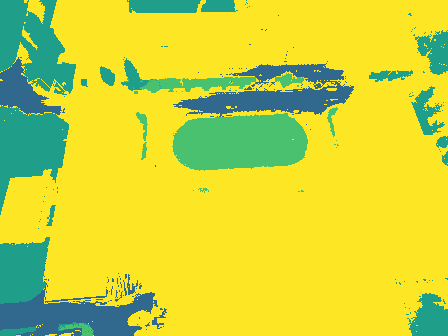
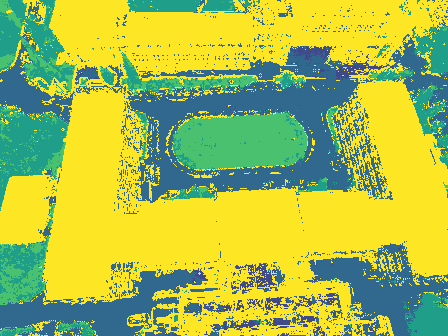
emmm

diff --git a/model.py b/model.py
@@ -23,13 +23,11 @@ class DenseClip(nn.Module):
         jit: bool = False,
         only_clear: bool = False,
         upsampler: str = "gfup",
-        downscale_factor: float = 0.5,  # 新增：下采样比例，与 infer.py 一致
     ):
         super().__init__()
         self.device = torch.device(device)
         self.model_name = name
         self.only_clear = only_clear
-        self.downscale_factor = downscale_factor
 
         # 1. 加载 OpenCLIP 模型
         pretrained_tag = "openai" if "laion" not in name else "laion2b_s34b_b88k"
@@ -181,7 +179,7 @@ class DenseClip(nn.Module):
         # --- 针对 SatUp 的特殊处理：与 infer.py 完全一致 ---
         if isinstance(self.up, SatUp):
             # 1. 下采样输入图像
-            lr_img = F.interpolate(x, scale_factor=self.downscale_factor, mode='bilinear', align_corners=False)
+            lr_img = x
             # 2. 从下采样图像提取 ClearCLIP 特征
             lr_features = self._extract_clearclip_features(lr_img)
             # 3. 调用 SatUp 上采样至原始尺寸

diff --git a/infer.py b/infer.py
@@ -73,7 +73,7 @@ def parse_args():
     parser = argparse.ArgumentParser()
     default_device = "cuda" if torch.cuda.is_available() else "cpu"
     parser.add_argument("--device", type=str, default=default_device)
-    parser.add_argument("--filename", type=str, default="asset/img3.jpg")
+    parser.add_argument("--filename", type=str, default="asset/img.jpg")
     parser.add_argument("--window_size", type=int, default=224, help="CLIP 窗口大小")
     parser.add_argument(
         "--stride", type=int, default=112, help="步长，推荐窗口的一半实现重叠"
@@ -181,7 +181,7 @@ def main():
         probs_np = full_probs.cpu().numpy()
 
         # 2. 执行全局 Dense CRF 优化 (核心步骤)
-        # print(">>> 正在运行全局 Dense CRF 优化，请稍候...")
+        print(">>> 正在运行全局 Dense CRF 优化，请稍候...")
         probs_np = apply_dense_crf(img_np, probs_np)
 
         # 3. 最终类别判定
